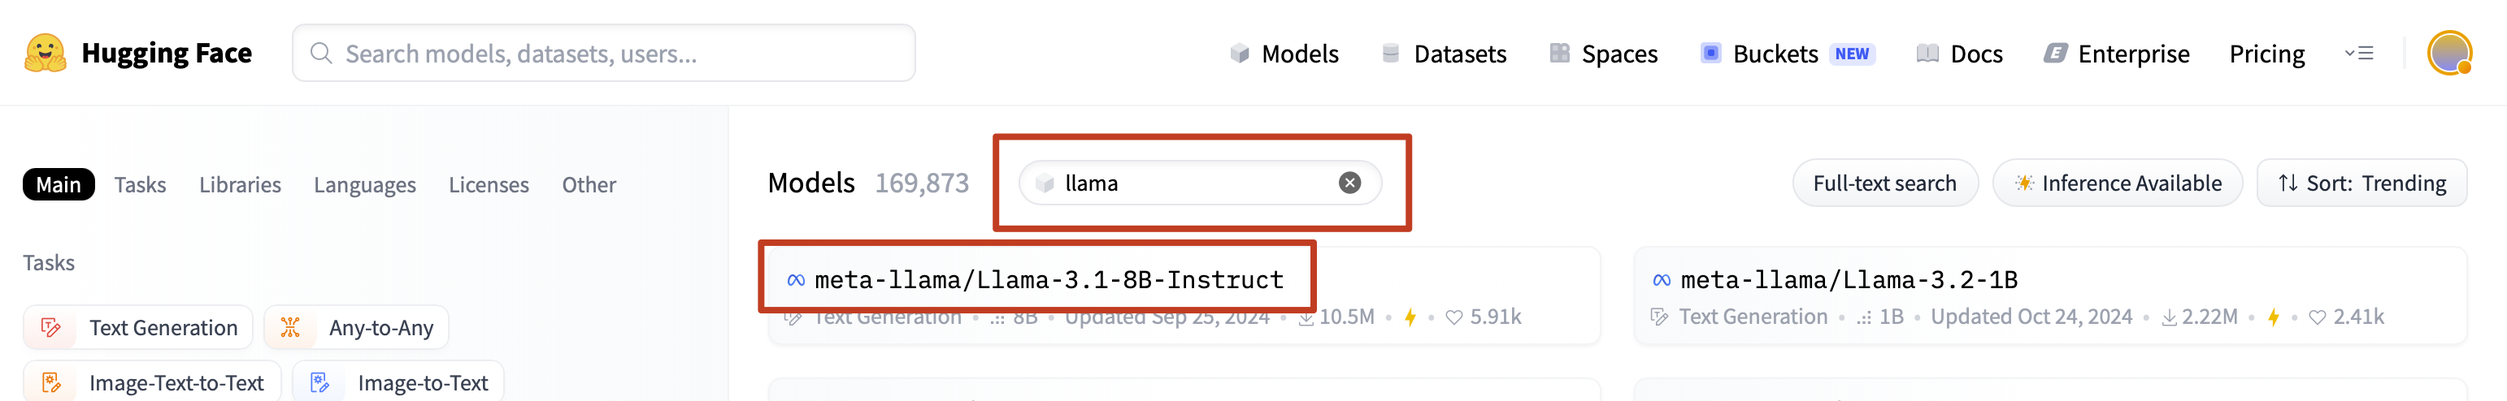
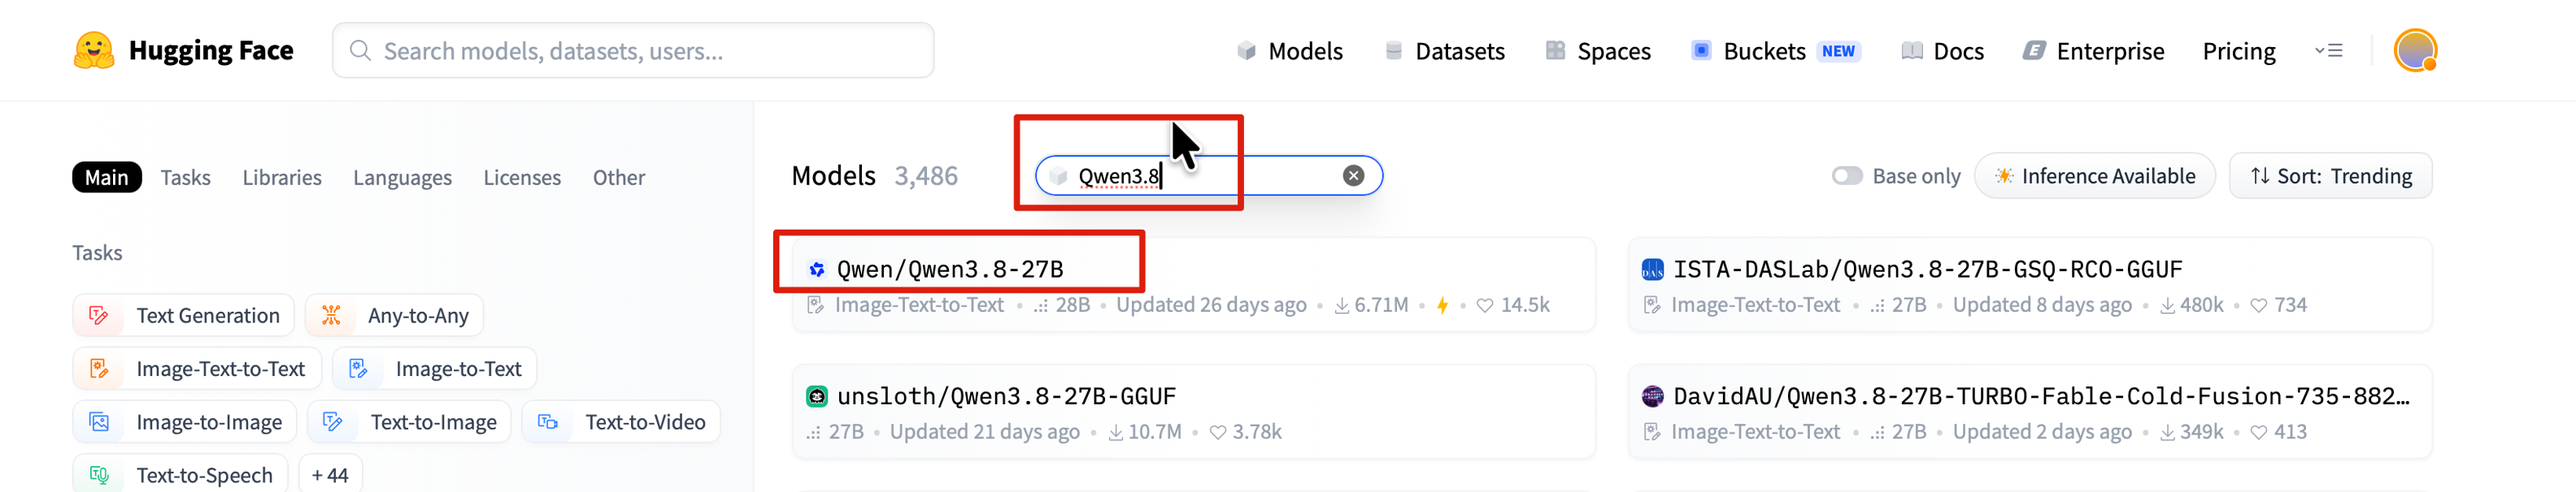
update

diff --git a/tutorials/Tapis_FlexServ/01b-running-flexserv.md b/tutorials/Tapis_FlexServ/01b-running-flexserv.md
@@ -224,17 +224,15 @@ Now, go to the **Fetch model** section. We support batch model download from 3 d
 
 <!-- ![FlexServ Model Manager - Model Pools](/tutorials/images/sec4/image20.png) -->
 
-The most common way to use a model is to find and download a model from HuggingFace. Go to <a href="https://huggingface.co" target="_blank">https://huggingface.co</a> and click on **Models** on the navigation bar which is on top of the page. Then in the input box beside **Models**, enter `llama` and you should be able to see a list of models being filtered out, where you can find the `Llama-3.1-8B-Instruct` model.
+The most common way to use a model is to find and download a model from HuggingFace. Go to <a href="https://huggingface.co" target="_blank">https://huggingface.co</a> and click on **Models** on the navigation bar which is on top of the page. Then in the input box beside **Models**, enter `Qwen3.8` and you should be able to see a list of models being filtered out, where you can find the `Qwen/Qwen3.8-27B` model.
 
-![HuggingFace - find llama3](/tutorials/images/sec3/image34.png)
+![HuggingFace - find qwen3.8](/tutorials/images/sec3/image34.png)
 
-Click on that model, and you will get into the model info page. Models like Llama3 is a gated model since its publisher only allow you to use it with your signature. Therefore, if you never asked for access, you will be asked for filling a form to apply for the access. Usually you will get access within a limited amount of time. Once access is granted, you will see a prompt indicating that you have been granted for the access of this model. 
+Click on that model, and you will get into the model info page. 
 
 Click on the small icon beside the model ID, you will be able to copy the model ID. 
 
 ![HuggingFace - copy model ID](/tutorials/images/sec3/image35.png)
-
-If you don't want to use a gated model, you can pick some other open-weight models, like `Qwen/Qwen3.8-27B`.
 
 In the `Fetch Model` section of the model manager UI, you can paste the model ID into the `Model ID` box, and keep other boxes as default. If you want to download more than 1 model at a single shot, you can click on the `+` sign to add one more request for an additional model.
 
@@ -243,6 +241,9 @@ Click on **Download Models**, and the download will begin and you will see the m
 ![FlexServ Model Manager - Download](/tutorials/images/sec3/image20.png)
 
 In addition to downloading a model from the public pool, you can also drag a model from the public pool into your private model pool. This is the easiest way to use a model tested and approved by your organization. 
+
+
+> Note on gated model: Models like `Llama-3.1-8B-Instruct` is a gated model since its publisher only allow you to use it with your signature. Therefore, if you never asked for access, you will be asked for filling a form to apply for the access. Usually you will get access within a limited amount of time. Once access is granted, you will see a prompt indicating that you have been granted for the access of this model. For downloading a gated model, you will have to [**create a HuggingFace Token**](https://huggingface.co/docs/hub/en/security-tokens), and you put that HF_TOKEN on the FlexServ UI before you download an authorized gated model. Therefore, for convenience, we pick un-gated models, like `Qwen/Qwen3.8-27B`.
 
 #### Unpacking Your Own Model to FlexServ
 
@@ -259,11 +260,11 @@ Once the model loading starts, you will see a progress bar.
 When loading finishes, you should see the start becomes amber indicating that it is loaded now. 
 ![FlexServ Model Manager - Loading a Model](/tutorials/images/sec3/image23.png)
 
-Note: If you encounter any issue when loading the model, you can try the following depending on the situation:
-
-  1. if you see error message indicating that some files are missing (No such file or directory), that means some of the model files are not downloaded successfully or have been deleted by accident or periodical data retention on $SCRATCH directory. In this case, you can simply right click the model and select **Delete** in the menu re-transfer it from the public pool or re-download one using the model fetching functionality.
-  2. if you see error message indicating that the model loading fails due to out of memory issue, you can try to load a smaller model, or you can try to unload all models and load the model again. You can also check the metrics page to see if your GPU memory or system memory is hitting the high watermark. If so, unloading some models or all models should help with that.
-  3. if you see error message indicating that the model loading fails due to some unexpected error, you can try to refresh the webpage and load the model again. 
+> Note: If you encounter any issue when loading the model, you can try the following depending on the situation:
+>  1. if you see error message indicating that some files are missing (No such file or directory), that means some of the model files are not downloaded successfully or have been deleted by accident or periodical data retention on `$SCRATCH` directory. In this case, you can simply right click the model and select **Delete** in the menu and re-transfer it from the public pool or re-download one using the model fetching functionality.
+>  2. if you see error message indicating that the model loading fails due to out-of-memory issue, you can try to load a smaller model, or you can try to unload all models and load the model again. We provide you a **Reset Model Cache in Inference Engine** button for you to unload all models with a single click. You can also check the metrics page to see if your GPU memory or system memory is hitting the high watermark. If so, unloading some models or all models should help with that.
+>  3. if you see error message indicating that the model loading fails due to some unexpected error, you can try to refresh the webpage and load the model again. 
+>  4. There are over 3 millions of models on HuggingFace today, and the numbers are increasing each day. Each major open-weight LLM/VLM models will have many variations, including quantized variations, fine-tuned variations, etc. As we are using the transformers backend now, in most cases, the official original release of a model in safetensors format should be supported. However, compatibility exception may occur due to the support of that model in the transformers library we include in our FlexServ distribution.
 
 ### Step 3.2.4: Multi-model Chat with FlexServ
 

diff --git a/tutorials/Fine_Tuning_Vision/02-evaluation.md b/tutorials/Fine_Tuning_Vision/02-evaluation.md
@@ -1,24 +1,16 @@
 # Section 5: Preparing JupyterHub Environment
 
-
-
-
-
 ## JupyterHub Environment
 
 We use <a href="https://public.jupyter.tacc.cloud/" target="_blank">TACC's Public JupyterHub</a>  to run the evaluation code on the test dataset and see the accuracy of our fine-tuned model.
 
 You may login with your TACC accounts.
 
-After login, you should see a Jupyter notebook file named `Code-Detection.ipynb` in the file tree view on the left side. 
+After login, in the file tree view, go with `ai-tutorial-2026 -> notebooks -> Code-Detection.ipynb`, then you double-click on Jupyter notebook file named `Code-Detection.ipynb`. 
 
 ## Trouble shooting tips: 
 
 In case if you run into some issues in the JupyterHub environment, here are some trouble shooting guides: 
-
-#### Not able to find the `Code-Detection.ipynb` file: 
-
-In the file tree view, go with `ai-tutorial-2026 -> notebooks -> Code-Detection.ipynb`
 
 #### Restarting your Jupyter Server
 
@@ -305,7 +297,8 @@ Once you finished modifying the prompt, copy and paste the prompt into the chat 
 -  The prompt is very long, so you might see it becomes a long prompt button below the chat box, which is normal
 -  Change the `temperature` and `seed` to 0 for a deterministic solution.
 -  Make sure the `Streams` is checked. 
--  Check `Multi-turn conversation`. If you need to clear the conversation history, click the **Clear Responses History** button.
+-  Check `Multi-turn conversation` in case if you need to ask follow-up questions to the model.
+-  If you need to clear the conversation history, click the **Clear Responses History** button.
 -  Press the send button.
 
 ![Paste Prompt](/tutorials/images/sec8/image14.png)
@@ -320,10 +313,7 @@ If you paste a prompt that is larger than 500 bytes, we will show that as a larg
 
 ![Code](/tutorials/images/sec8/image16.png)
 
-
-
 ## Evaluating Fine-tuned Model by Running Code Detection On Jupyter 
-
 
 In this step, we will run the generated code to perform model performance evaluation to see the effect of our fine-tuning process on the yolo26n models. 
 
